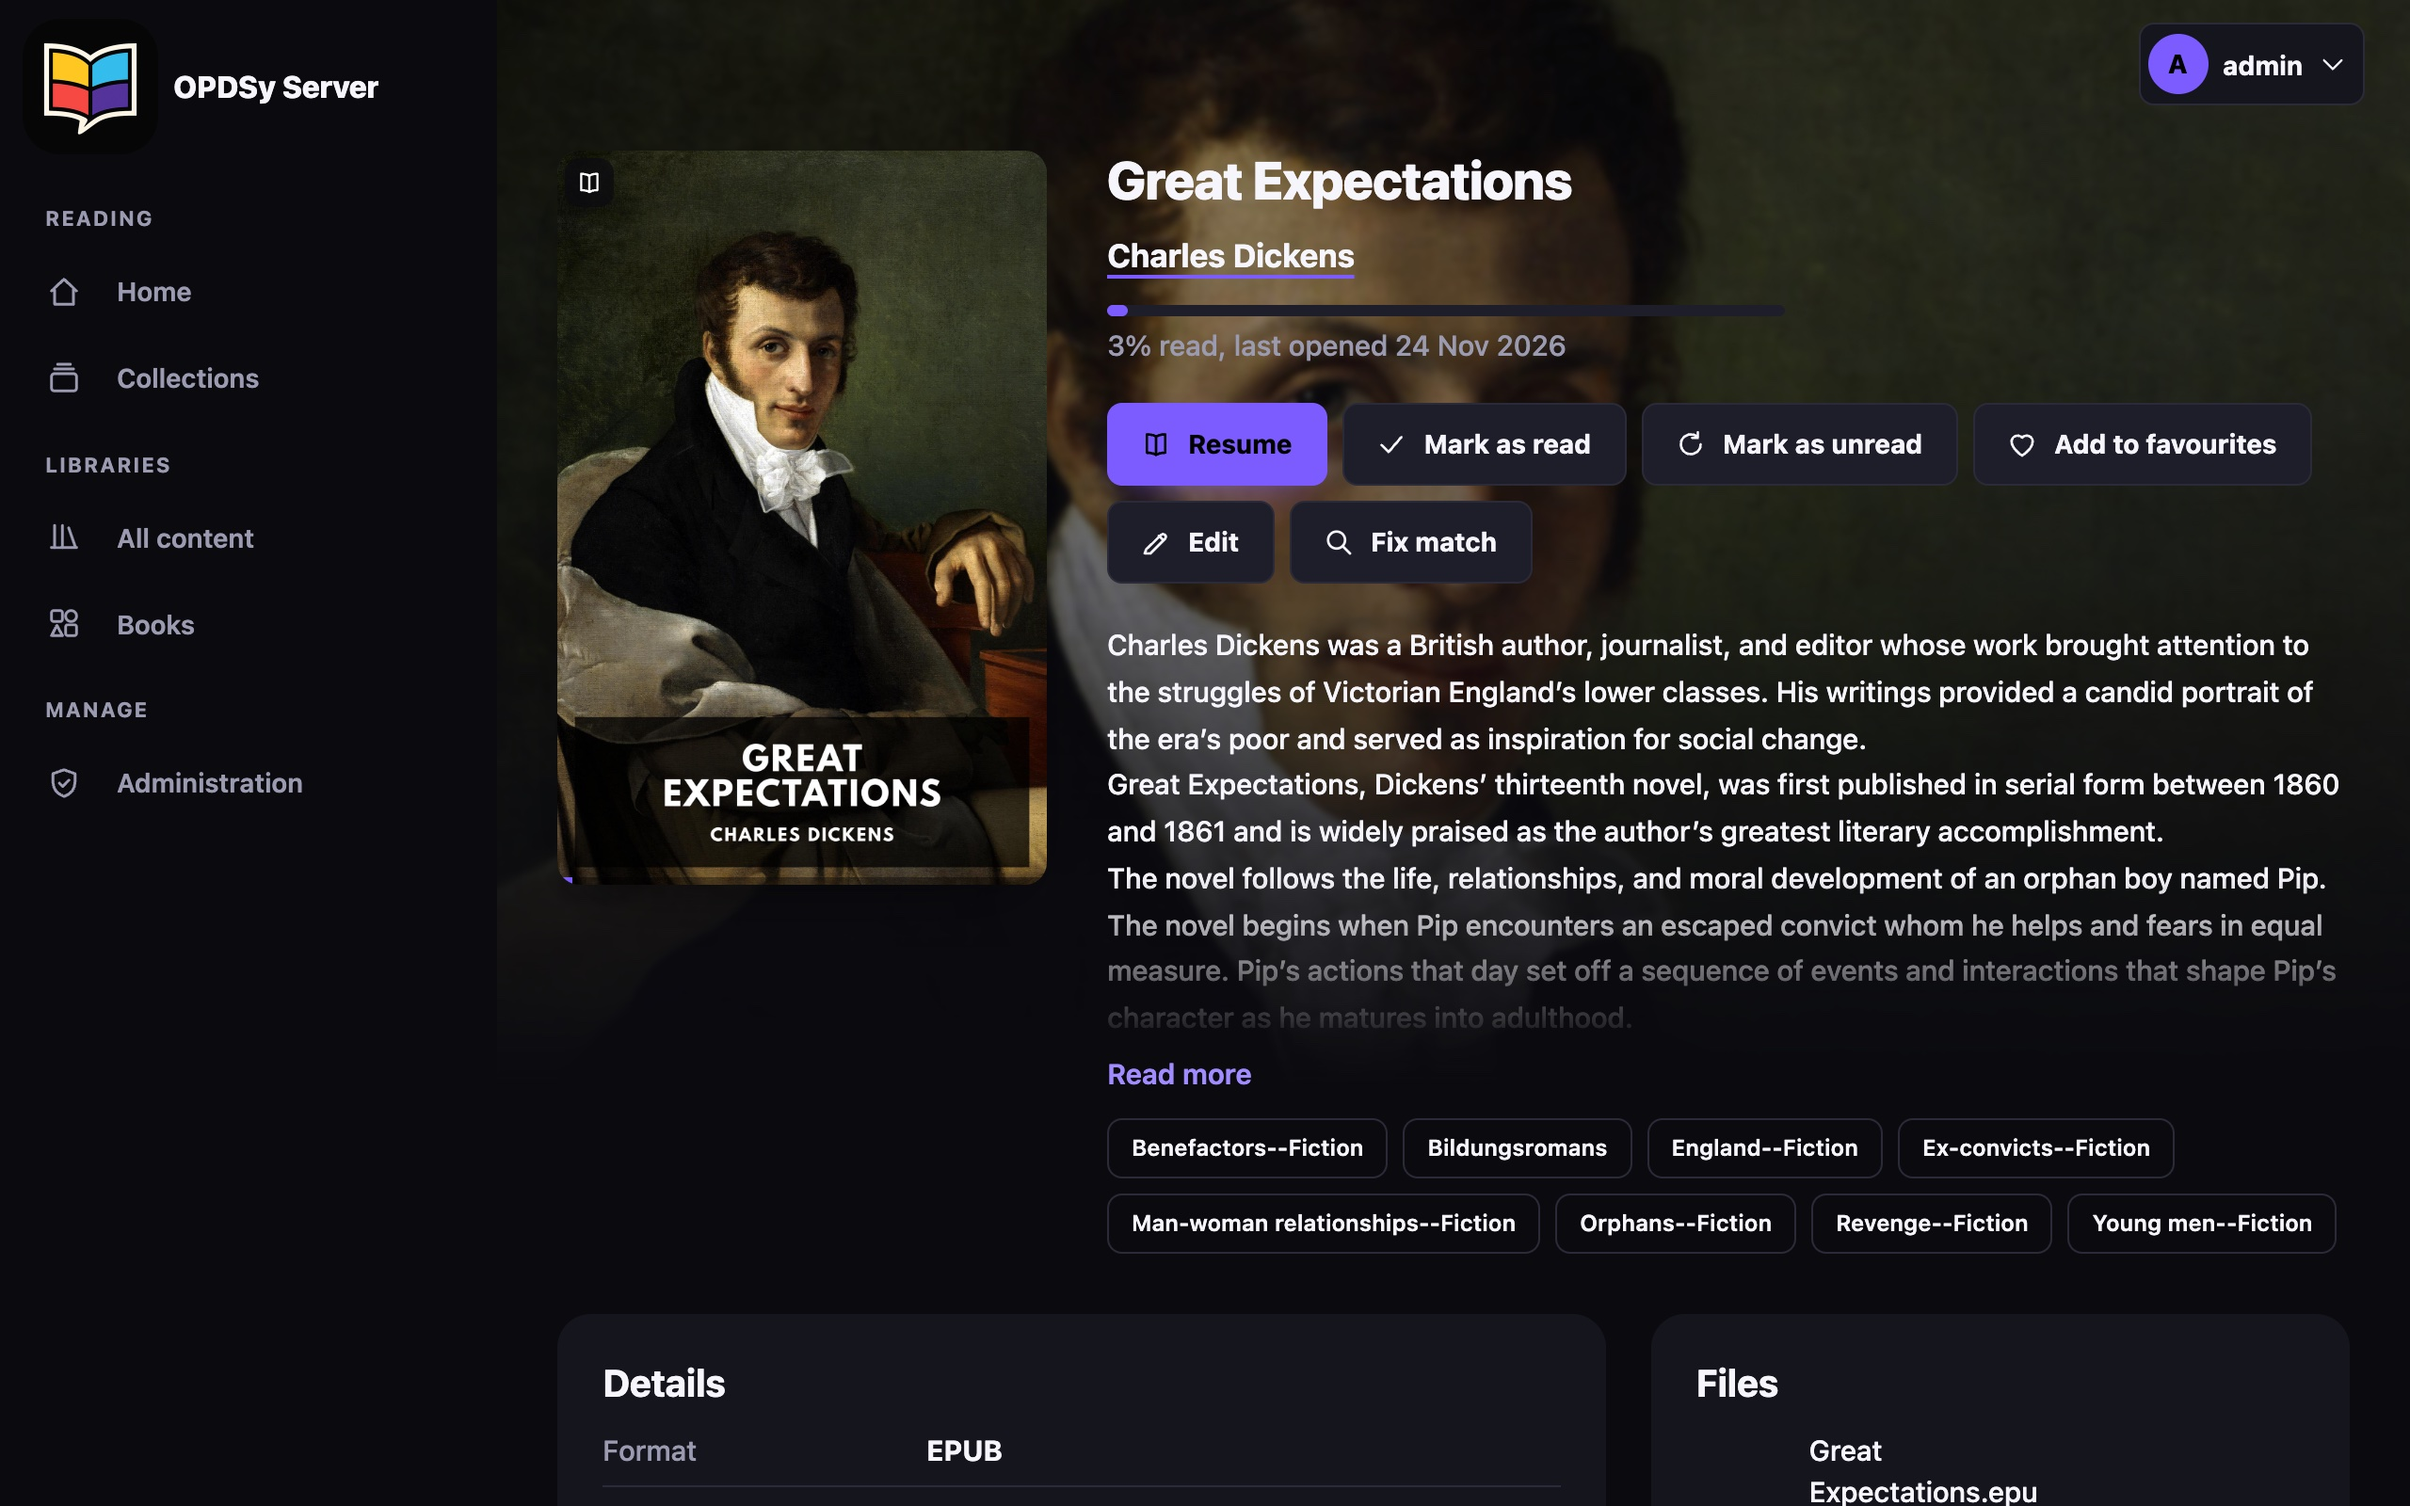
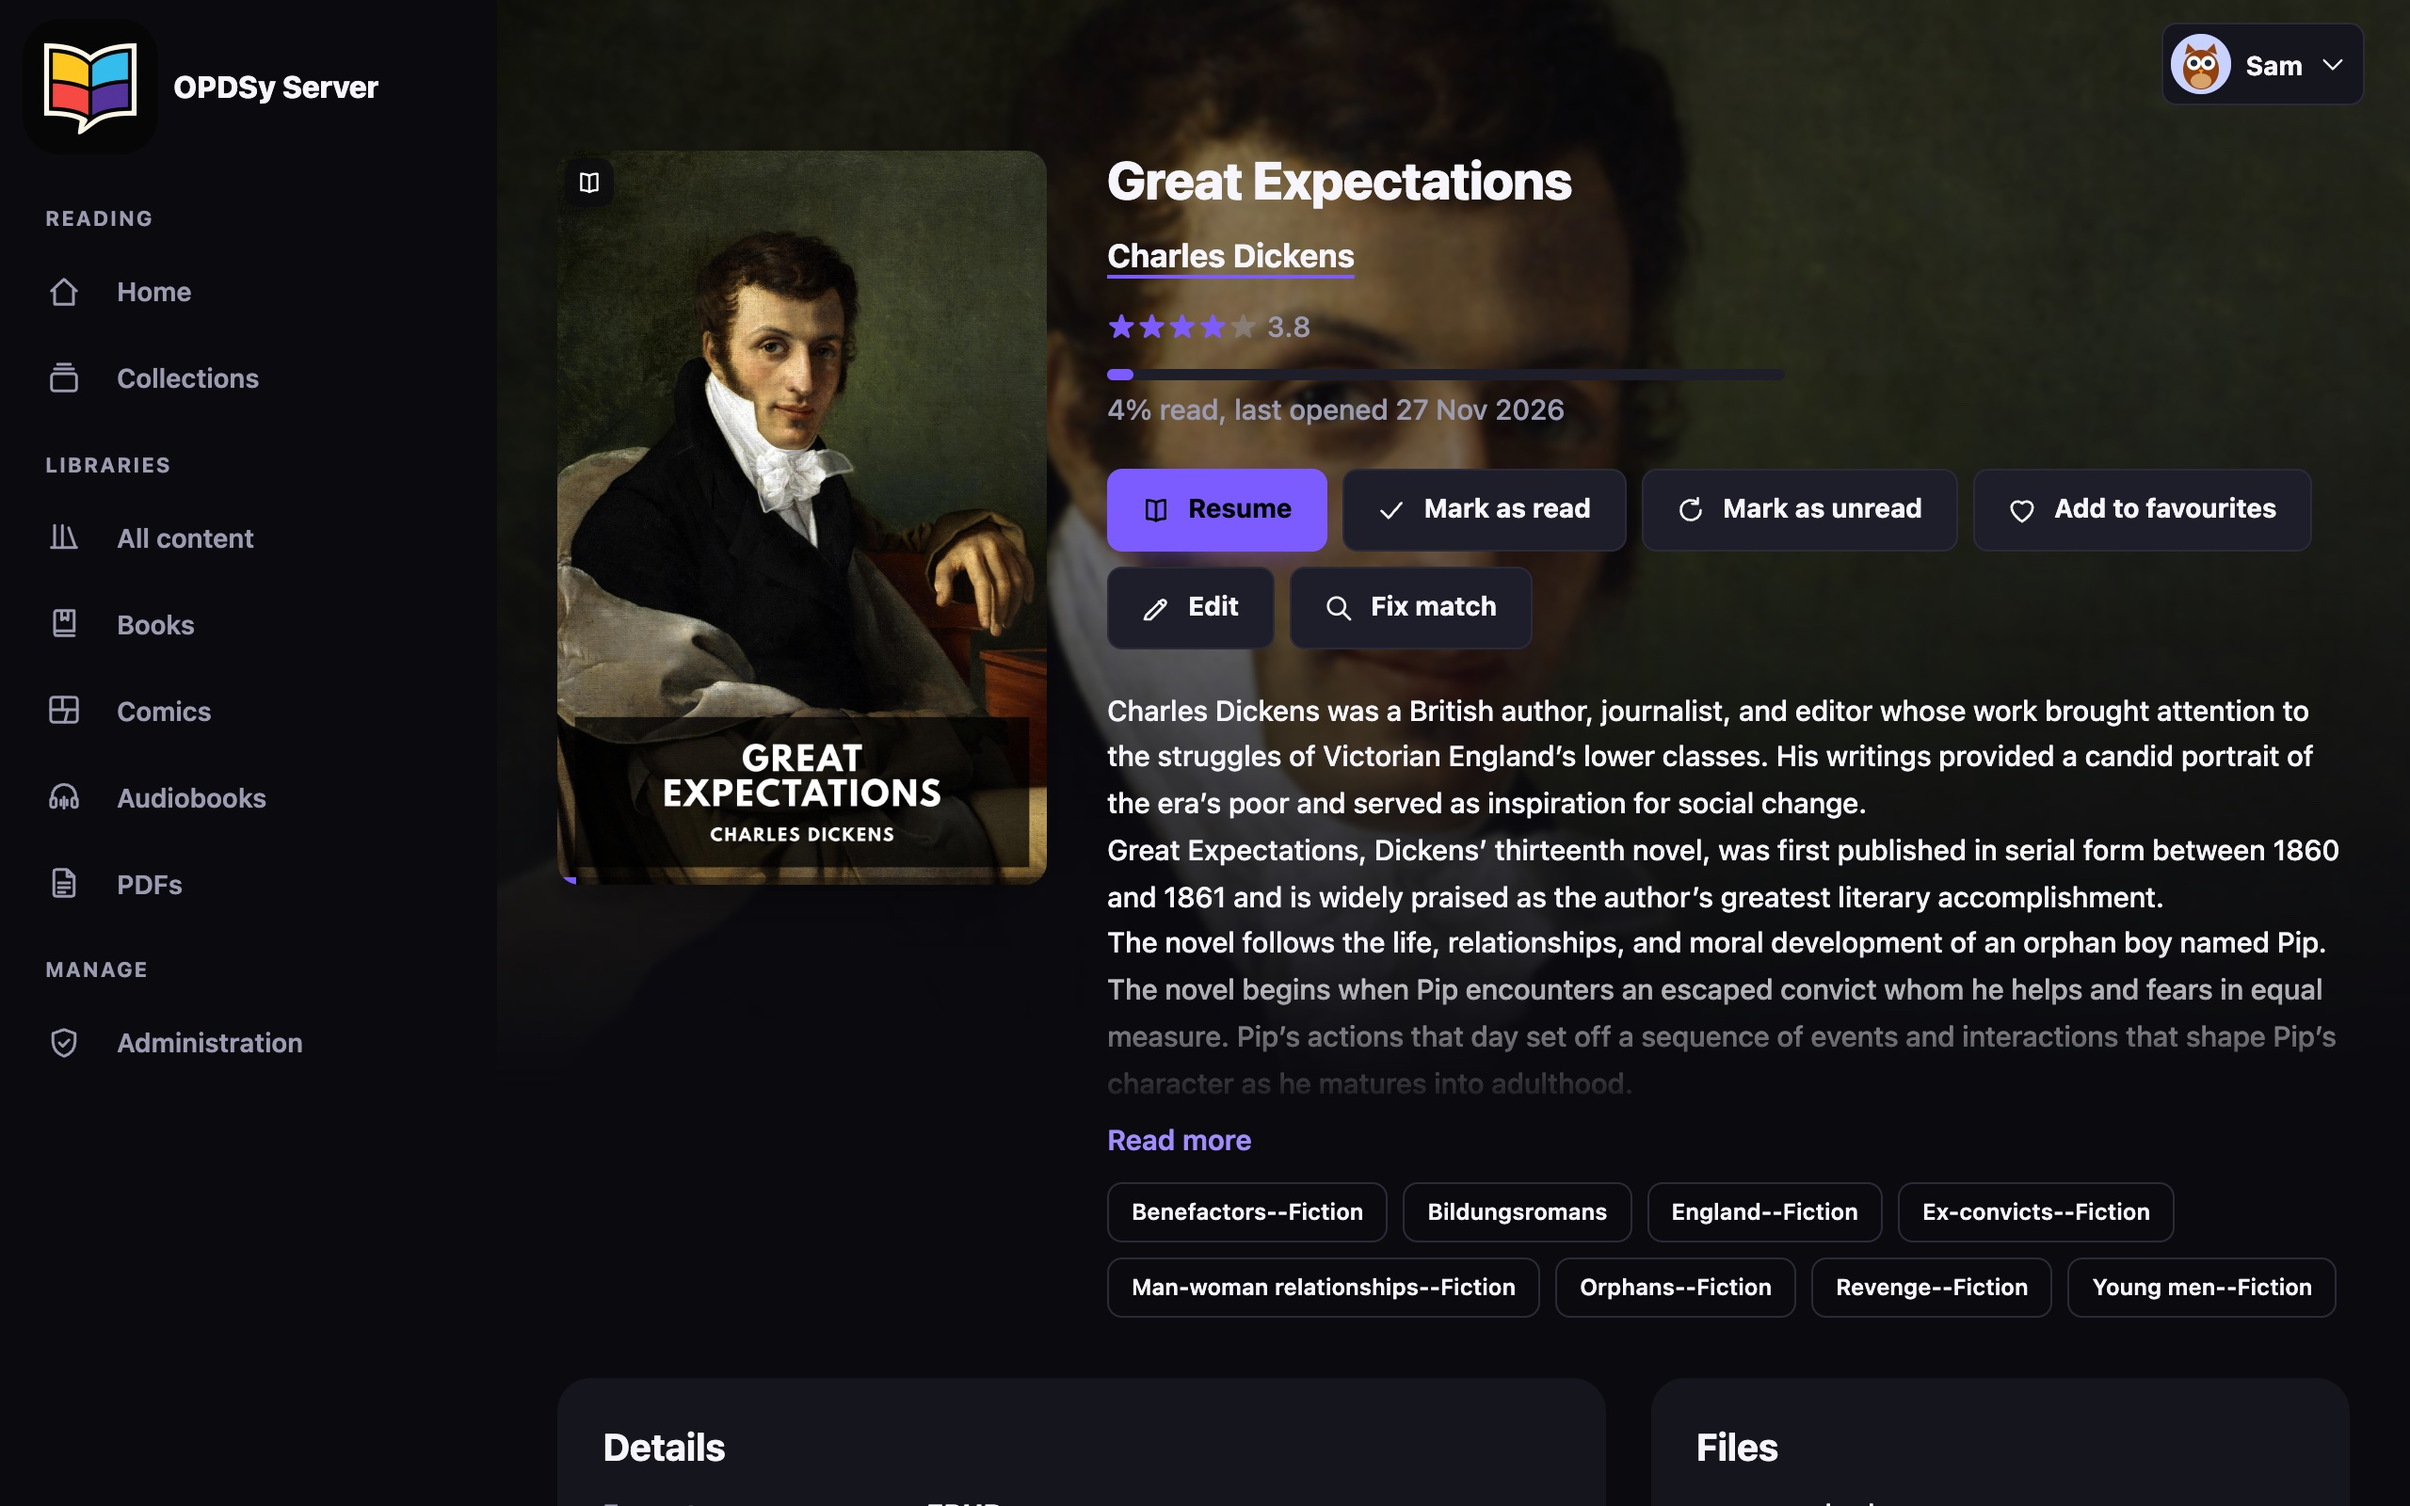
feat(opdsy-server): refresh screenshots with comics, PDFs and audiobooks

diff --git a/src/data/apps.ts b/src/data/apps.ts
@@ -1030,14 +1030,17 @@ export const apps: App[] = [
     },
     techStack: ['.NET 10', 'ASP.NET Core', 'SQLite', 'React', 'TypeScript', 'Docker'],
     screenshots: [
-      { src: '/screenshots/opdsy-server/01-web-library.jpg', featured: true, alt: 'OPDSy Server web library home page with rows of recently added book covers' },
-      { src: '/screenshots/opdsy-server/02-browse.jpg', featured: true, alt: 'Browsing every book in the web library as a cover grid, with filters for reading status, format, author, series and more' },
-      { src: '/screenshots/opdsy-server/03-book.jpg', featured: true, alt: 'Book page for Great Expectations with read, favourite, edit and fix match buttons and the book description' },
-      { src: '/screenshots/opdsy-server/04-reader.jpg', alt: 'Reading Great Expectations in the browser, with contents, highlights, bookmarks, read aloud and text size controls' },
+      { src: '/screenshots/opdsy-server/01-web-library.jpg', featured: true, alt: 'OPDSy Server web library home page, with continue reading across an ebook, a comic, an audiobook and a PDF, star ratings and a recommended for you shelf' },
+      { src: '/screenshots/opdsy-server/02-browse.jpg', featured: true, alt: 'Browsing every book in the web library as a cover grid with star ratings, and filters for reading status, favourite, library, format, author, series and more' },
+      { src: '/screenshots/opdsy-server/03-book.jpg', featured: true, alt: 'Book page for Great Expectations with its rating, reading progress, resume, favourite, edit and fix match buttons and the book description' },
+      { src: '/screenshots/opdsy-server/04-reader.jpg', alt: 'Reading chapter IV of Great Expectations in the browser, with contents, highlights, bookmarks, read aloud and text size controls' },
+      { src: '/screenshots/opdsy-server/10-audiobook.jpg', alt: 'Listening to The Time Machine audiobook in the browser, with the cover, a live audio visualiser, playback controls, speed and a list of 12 chapters' },
+      { src: '/screenshots/opdsy-server/11-comic.jpg', alt: 'Reading Little Nemo in Slumberland in the browser comic reader, on page 5 of 9 with a strip of page thumbnails' },
+      { src: '/screenshots/opdsy-server/12-pdf.jpg', alt: 'Reading the NASA book Earth as Art in the browser PDF reader, with a satellite image and page thumbnails' },
       { src: '/screenshots/opdsy-server/05-collections.jpg', alt: 'Collections in the web library: Adventure, Book club and Gothic tales' },
-      { src: '/screenshots/opdsy-server/06-dashboard.jpg', alt: 'Admin dashboard showing libraries, publications, users, recent scans, quick actions and server health' },
-      { src: '/screenshots/opdsy-server/07-organisation.jpg', alt: 'Library settings with the three organisation modes: leave files alone, managed and hybrid, and a preview of the result' },
-      { src: '/screenshots/opdsy-server/08-users.jpg', alt: 'Users screen listing an administrator and three family reader accounts' },
+      { src: '/screenshots/opdsy-server/06-dashboard.jpg', alt: 'Admin dashboard showing four libraries for books, comics, audiobooks and PDFs, with publication counts, quick actions and server health' },
+      { src: '/screenshots/opdsy-server/07-organisation.jpg', alt: 'Library settings with the three organisation modes, leave files alone, managed and hybrid, and the folder template for managed libraries' },
+      { src: '/screenshots/opdsy-server/08-users.jpg', alt: 'Users screen listing an administrator and three family reader accounts with their avatars' },
       { src: '/screenshots/opdsy-server/09-connect.jpg', alt: 'Settings screen showing the single OPDS 2.0 and OPDS 1.2 addresses to add to a reading app' },
     ],
     credits: [
@@ -1045,7 +1048,13 @@ export const apps: App[] = [
       { text: 'Standard Ebooks', href: 'https://standardebooks.org/' },
       { text: ', whose covers use public-domain paintings and are dedicated to the public domain (' },
       { text: 'CC0', href: 'https://creativecommons.org/publicdomain/zero/1.0/' },
-      { text: '). User names and collections are examples.' },
+      { text: '). The audiobooks are public-domain recordings from ' },
+      { text: 'LibriVox', href: 'https://librivox.org/' },
+      { text: '. The comics are Winsor McCay\'s ' },
+      { text: 'Little Nemo in Slumberland', href: 'https://commons.wikimedia.org/wiki/Category:Little_Nemo_in_Slumberland' },
+      { text: ' (1905 to 1907), from public-domain scans on Wikimedia Commons. The PDFs are public-domain ebooks from ' },
+      { text: 'NASA', href: 'https://www.nasa.gov/ebooks/' },
+      { text: '. User names and collections are examples.' },
     ],
     highlights: [
       {
